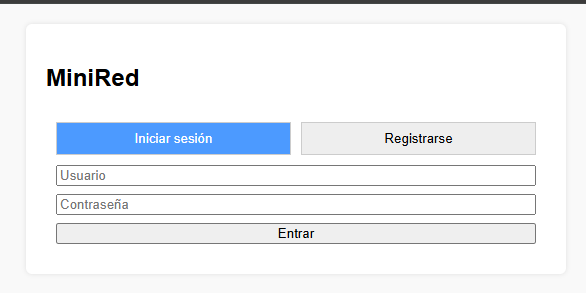
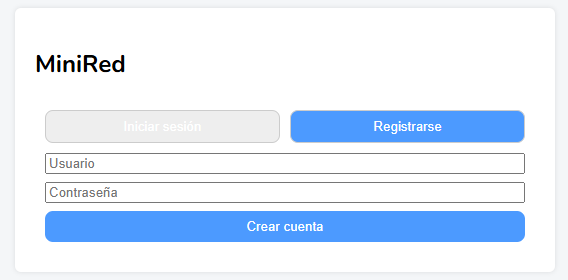
mejorando estilos

Changed region(s): [[0.0599, 0.3714, 0.9278, 0.8857], [0.0, 0.0, 1.0, 0.0286], [0.0599, 0.2, 0.2394, 0.3143]]

diff --git a/src/index.css b/src/index.css
@@ -1,16 +1,31 @@
+@import url('https://fonts.googleapis.com/css2?family=Nunito:ital,wght@0,200..1000;1,200..1000&display=swap');
+
 body {
-  font-family: Arial, sans-serif;
-  background: #f9f9f9;
+  background: #f4f6f8;
+  font-family: 'Nunito', sans-serif;
   margin: 0;
   padding: 0;
 }
 
 .header {
+  background: linear-gradient(90deg, #4c9aff, #6c63ff);
+  color: #fff;
+  padding: 16px;
   display: flex;
   justify-content: space-between;
-  background: #4c9aff;
-  color: white;
-  padding: 10px 20px;
+  align-items: center;
+  border-radius: 8px 8px 0 0;
+}
+
+header .header-username {
+  margin-right: 16px;
+  font-weight: bold;
+  text-transform: capitalize;
+}
+
+h1 {
+  margin: 0;
+  font-size: 1.5rem;
 }
 
 .login-form,
@@ -29,15 +44,6 @@ body {
   padding: 20px;
   border-radius: 6px;
   box-shadow: 0 0 5px rgba(0, 0, 0, 0.1);
-}
-
-.estado-list {
-  padding: 10px;
-}
-
-.estado-item {
-  padding: 5px 0;
-  border-bottom: 1px solid #ccc;
 }
 
 .auth-form {
@@ -77,6 +83,20 @@ body {
 textarea {
   resize: vertical;
   width: 460px;
-  padding: 10px 20px;
+  padding: 10px 19px;
   font-size: 1em;
+}
+
+button {
+  background: #4c9aff;
+  color: #fff;
+  padding: 8px 16px;
+  border: none;
+  border-radius: 8px;
+  cursor: pointer;
+  transition: background 0.3s ease;
+}
+
+button:hover {
+  background: #367edc;
 }

diff --git a/src/components/EstadoList.jsx b/src/components/EstadoList.jsx
@@ -1,33 +1,15 @@
-/*
 import React from 'react';
+import '../Styles/EstadoList.css';
 
 export default function EstadoList({ estados })
 {
     return (
-        <div className="estado-list">
-            {estados.map((est, idx) => (
-                <div key={idx} className="estado-item">
-                    <strong>{est.user}</strong>: {est.text}
-                </div>
-            ))}
-        </div>
-    );
-}
-
-*/
-
-/* solo renderiza */
-import React from 'react';
-
-export default function EstadoList({ estados })
-{
-    return (
-        <div className="estado-list">
+        <div className='post-list'>
             {estados.map((estado, i) => (
-                <div key={i} className="estado">
-                    <strong>{estado.user}</strong>
-                    <p>{estado.text}</p>
-                    <small>{new Date(estado.date).toLocaleString()}</small>
+                <div key={i} className='post-card'>
+                    <strong className='post-user'>{estado.user}</strong>
+                    <p className='post-text'>{estado.text}</p>
+                    <small className="post-date">{new Date(estado.date).toLocaleString()}</small>
                 </div>
             ))}
         </div>

diff --git a/src/components/Header.jsx b/src/components/Header.jsx
@@ -1,30 +1,3 @@
-/*import React from 'react';
-import { logout, getUser } from '../utils/auth.js';
-
-export default function Header({ onLogout })
-{
-    const user = getUser();
-
-    function handleLogout()
-    {
-        logout();
-        onLogout();
-    }
-
-    return (
-        <header className="header">
-            <h1>MiniRed</h1>
-            {user && (
-                <div>
-                    <span>Hola, {user.username}</span>
-                    <button onClick={handleLogout}>Salir</button>
-                </div>
-            )}
-        </header>
-    );
-}
-*/
-
 import React from 'react';
 import { logout, getUser } from '../utils/auth.js';
 
@@ -43,7 +16,7 @@ export default function Header({ onLogout })
             <h1>MiniRed</h1>
             {user && (
                 <div>
-                    <span>Hola, {user.username}</span>
+                    <span className='header-username'>Hola, {user.username}</span>
                     <button onClick={handleLogout}>Salir</button>
                 </div>
             )}

diff --git a/src/Styles/EstadoList.css b/src/Styles/EstadoList.css
@@ -1,0 +1,52 @@
+.post-list {
+  display: flex;
+  flex-direction: column;
+  gap: 12px;
+  padding: 16px;
+}
+
+.post-card {
+  background: #fff;
+  border-radius: 12px;
+  box-shadow: 0 2px 6px rgba(0, 0, 0, 0.08);
+  padding: 12px 16px;
+  margin-bottom: 10px;
+  transition: all 0.3s ease;
+}
+
+
+.post-card:nth-child(odd) {
+  border-left: 5px solid #4c9aff;
+}
+
+.post-card:nth-child(even) {
+  border-left: 5px solid #6c63ff;
+}
+
+.post-user {
+  font-weight: bold;
+  font-size: 1rem;
+  color: #333;
+}
+
+.post-text {
+  margin: 8px 0;
+  font-size: 0.95rem;
+  color: #444;
+}
+
+.post-date {
+  font-size: 0.8rem;
+  color: #888;
+}
+
+/********** mejoras visuales **********/
+.post-card,
+button {
+  transition: all 0.3s ease;
+}
+
+.post-card:hover {
+  transform: translateY(-2px);
+  box-shadow: 0 4px 10px rgba(0, 0, 0, 0.1);
+}

diff --git a/src/App.jsx b/src/App.jsx
@@ -1,4 +1,3 @@
-import React from 'react';
 import { BrowserRouter as Router, Routes, Route, Navigate } from 'react-router-dom';
 import Home from './pages/Home.jsx';
 import Login from './pages/Login.jsx';
@@ -13,8 +12,12 @@ export default function App()
       <Routes>
         <Route path="/login" element={<Login />} />
         <Route
-          path="/"
+          path="/home"
           element={user ? <Home /> : <Navigate to="/login" />}
+        />
+        <Route
+          path="/"
+          element={<Navigate to={user ? "/home" : "/login"} />}
         />
       </Routes>
     </Router>

diff --git a/README.md b/README.md
@@ -12,8 +12,6 @@ Ideal para practicar React Router, manejo de estado básico y persistencia local
   ![alt text](image-1.png)
 - ✅ **Crear, ver y borrar estados** (posts)
   ![alt text](image-2.png)
-  ![alt text](image-3.png)
-
 - ✅ **Persistencia en LocalStorage**
 - ✅ **Diseño responsive y sencillo**
 
